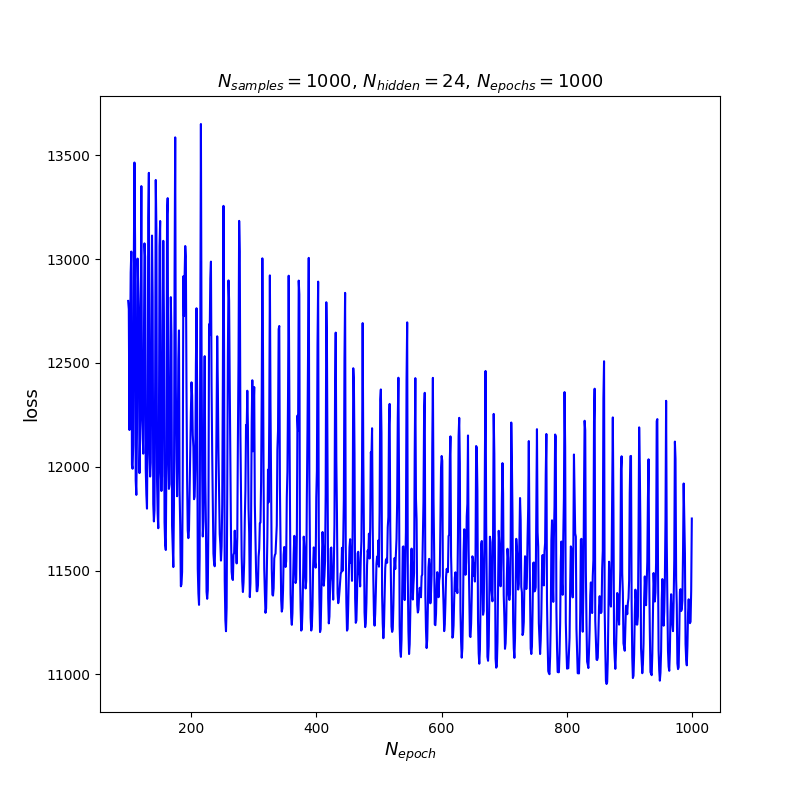
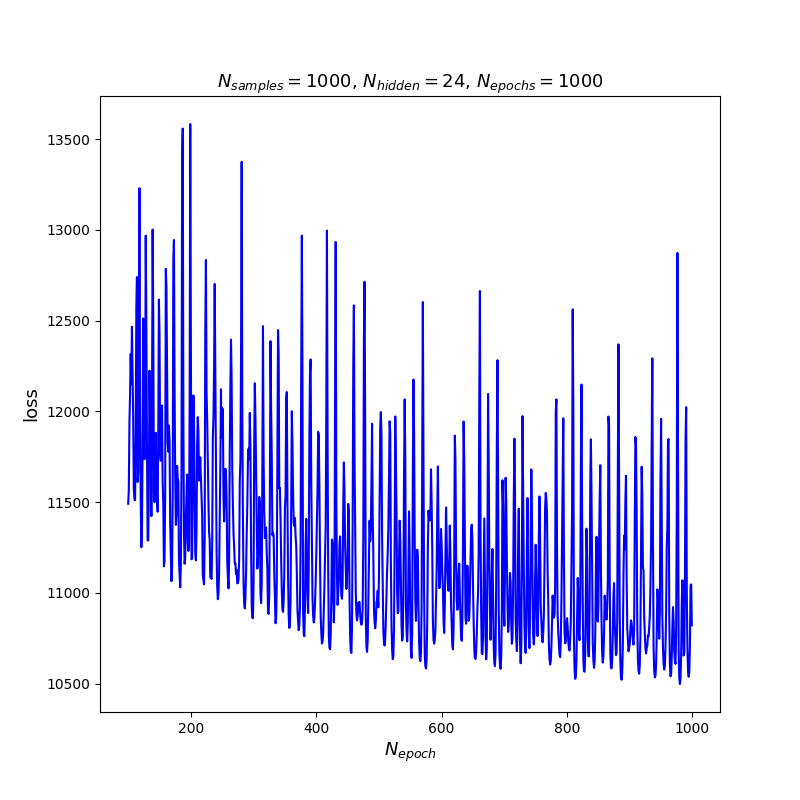
added means and priors plots

diff --git a/mdn_example_2d.py b/mdn_example_2d.py
@@ -204,7 +204,7 @@ sess = tf.InteractiveSession()
 sess.run(tf.global_variables_initializer())
 
 # = 6000 for NHIDDEN = 24, STDEV = 0.5, KMIX = 24
-NEPOCH = 6000 
+NEPOCH = 4000 
 loss = np.zeros(NEPOCH) # store the training progress here.
 for i in range(NEPOCH):
   sess.run(train_op,feed_dict={x: x_data3, y: y_data3})
@@ -243,5 +243,24 @@ plt.title(r"$N_{samples}=$%i, $N_{hidden}=$%i, $N_{epochs}=$%i, $N_{mix}=$%i" %(
 plt.savefig(plotname,format="png"); plt.close(fig);
 
 
+# plot priors and mus:
 
+plotname = figure_path +'training_prediction_2d_mdn_means.png'
+fig, ax1 = plt.subplots(figsize=(8, 8)) # = plt.figure(figsize=(8, 8))
+plt.plot(x_test,out_mu_test,'bo',alpha=alpha_level,label=r"mixture means")
+plt.plot(x_test,y_test,'ro',alpha=alpha_level,label=r"prediction")
+ax2 = ax1.twinx()
+ax1.set_xlabel(r"x",fontsize=13)
+ax1.set_ylabel(r"y(x)",fontsize=13,color='red')
+ax2.set_ylabel(r"$\mu_i$(x), i=[1,$N_{mix}$]",fontsize=13,color='blue')
+plt.title(r"$N_{samples}=$%i, $N_{hidden}=$%i, $N_{epochs}=$%i, $N_{mix}=$%i" %(NSAMPLE3,NHIDDEN,NEPOCH,KMIX),fontsize=13)
+plt.savefig(plotname,format="png"); plt.close(fig);
 
+plotname = figure_path +'training_prediction_2d_mdn_priors.png'
+fig = plt.figure(figsize=(8, 8))
+plt.plot(x_test,out_pi_test,'ko',alpha=alpha_level,label=r"priors")
+#plt.plot(x_test,y_test,'ro',alpha=alpha_level,label=r"prediction")
+plt.xlabel(r"x",fontsize=13)
+plt.ylabel(r"$\alpha_i$(x), i=[1,$N_{mix}$]",fontsize=13)
+plt.title(r"$N_{samples}=$%i, $N_{hidden}=$%i, $N_{epochs}=$%i, $N_{mix}=$%i" %(NSAMPLE3,NHIDDEN,NEPOCH,KMIX),fontsize=13)
+plt.savefig(plotname,format="png"); plt.close(fig);

diff --git a/mdn_example_3d.py b/mdn_example_3d.py
@@ -248,7 +248,7 @@ plt.savefig(plotname,format="png"); plt.close(fig);
 
 # construct the MDN:
 NHIDDEN = 24
-STDEV = 0.5
+STDEV = 0.5 
 KMIX = 24 # number of mixtures
 NOUT = KMIX * 3 # pi, mu, stdev
 
